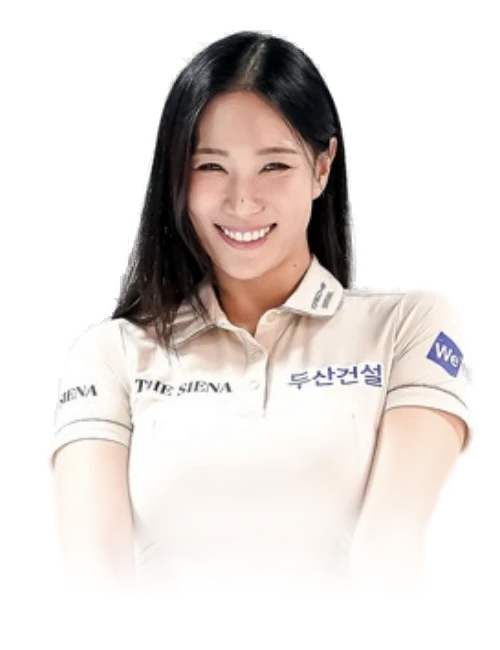
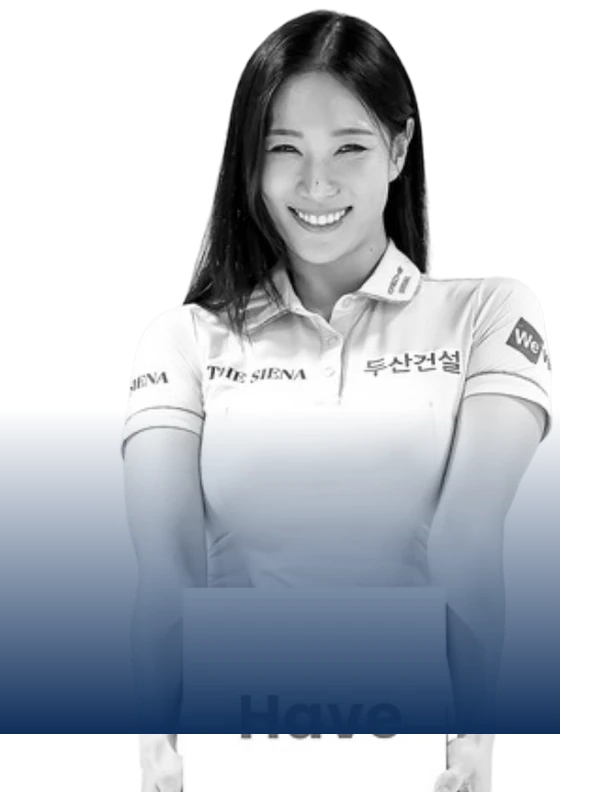
라인업: 노경한·유현주 카드를 피그마 배치 그대로 적용
Claude-Session: https://claude.ai/code/session_01R7psaqm8m7GEAGGww3SgQz

diff --git a/index.html b/index.html
@@ -934,7 +934,7 @@ try{ if('scrollRestoration' in history) history.scrollRestoration='manual'; }cat
     ['oh','오진승','정신건강의학과 전문의','MENTAL WELLNESS','11.22 SUN','W',[2.06,16.90,98.81]],
     ['nakjun_lu','이낙준','작가 · 이비인후과 전문의','LONGEVITY HISTORY','11.22 SUN','O',[-18.75,2.93,139.88]],
     ['hong_lu','홍정기','교수 · 데이스쿼트','EXERCISE SNACKING','11.20 FRI','B',[-4.17,14.86,117.86]],
-    ['noh','노경한 · 유현주','정형외과 전문의 · 프로골프선수','MOVEMENT','11.22 SUN','B',[-10,16.22,95.07],0,['yoohj_lu',31,8,88]],
+    ['noh','노경한 · 유현주','정형외과 전문의 · 프로골프선수','MOVEMENT','11.22 SUN','B',[-12.2,25.9,82.14],0,['yoohj_lu',23.81,20.95,89.88]],
     ['byun','변상균','연세대 생명공학과 교수','LONGEVITY SCIENCE','11.20 FRI','O',[-10.36,17.61,108.93],1],
     ['lee','이주희','피부과 전문의','SKIN LONGEVITY','11.21 SAT','W',[-5.65,18.92,96.43],1],
     ['choi','최예진','산부인과 전문의',"WOMEN'S HEALTH",'11.21 SAT','O',[-7.53,9.50,113.10],1]];
@@ -945,7 +945,7 @@ try{ if('scrollRestoration' in history) history.scrollRestoration='manual'; }cat
   const cardHTML=(r,clone)=>{ const ti=clone?' tabindex="-1" aria-hidden="true"':'';
     if(r[0]==='soon') return `<a class="l-card soon" href="${BOOKL}" target="_blank" rel="noopener"${ti}><div class="l-top"><span>LINEUP</span><b>COMING SOON</b></div><div class="soon-mid"><svg viewBox="0 0 24 24" width="44" height="44" aria-hidden="true"><path d="M12 1.5C12.7 7.4 16.6 11.3 22.5 12C16.6 12.7 12.7 16.6 12 22.5C11.3 16.6 7.4 12.7 1.5 12C7.4 11.3 11.3 7.4 12 1.5Z" fill="#fff"/></svg><h3>더 많은 연사가<br>곧 공개됩니다</h3></div><div class="l-bottom"><span class="l-book">롱진콘 신청하기 ↗</span></div></a>`;
     const [f,n,d,c,dt,t,[x,y,w]]=r;
-    return `<a class="l-card ${t}" href="${BOOKL}" target="_blank" rel="noopener"${ti}><div class="l-type" aria-hidden="true"><span>${WORD[f][0]}</span><span>${WORD[f][1]}</span></div>${r[8]?`<img src="img/${r[8][0]}.webp" alt="" loading="lazy" style="left:${r[8][1]}%;top:${r[8][2]}%;width:${r[8][3]}%">`:''}<img src="img/${f}.webp" alt="${clone?'':n}" loading="lazy" style="left:${x}%;top:${y}%;width:${w}%"><div class="scrim"></div><div class="l-top"><span>${c}</span><b>${dt}</b></div><div class="l-bottom"><h3>${n}</h3><p>${d}</p><span class="l-book">예매하기 ↗</span></div></a>`; };
+    return `<a class="l-card ${t}" href="${BOOKL}" target="_blank" rel="noopener"${ti}><div class="l-type" aria-hidden="true"><span>${WORD[f][0]}</span><span>${WORD[f][1]}</span></div>${r[8]?`<img src="img/${r[8][0]}.webp?v=3" alt="" loading="lazy" style="left:${r[8][1]}%;top:${r[8][2]}%;width:${r[8][3]}%;filter:none">`:''}<img src="img/${f}.webp" alt="${clone?'':n}" loading="lazy" style="left:${x}%;top:${y}%;width:${w}%">${r[8]?'<div style="position:absolute;left:-5.95%;top:66.89%;width:108.33%;height:36.71%;background:linear-gradient(rgba(14,46,90,0),#0E2E5A);pointer-events:none"></div>':''}<div class="scrim"></div><div class="l-top"><span>${c}</span><b>${dt}</b></div><div class="l-bottom"><h3>${n}</h3><p>${d}</p><span class="l-book">예매하기 ↗</span></div></a>`; };
   // 무한 루프: 같은 카드 세트를 앞·뒤로 한 벌씩 더 붙이고, 가운데 세트를 벗어나면 같은 위치의 가운데 카드로 몰래 점프
   rail.innerHTML=LV.map(c=>cardHTML(c,1)).join('')+LV.map(c=>cardHTML(c,0)).join('')+LV.map(c=>cardHTML(c,1)).join('');
   const cards=()=>rail.querySelectorAll('.l-card');
